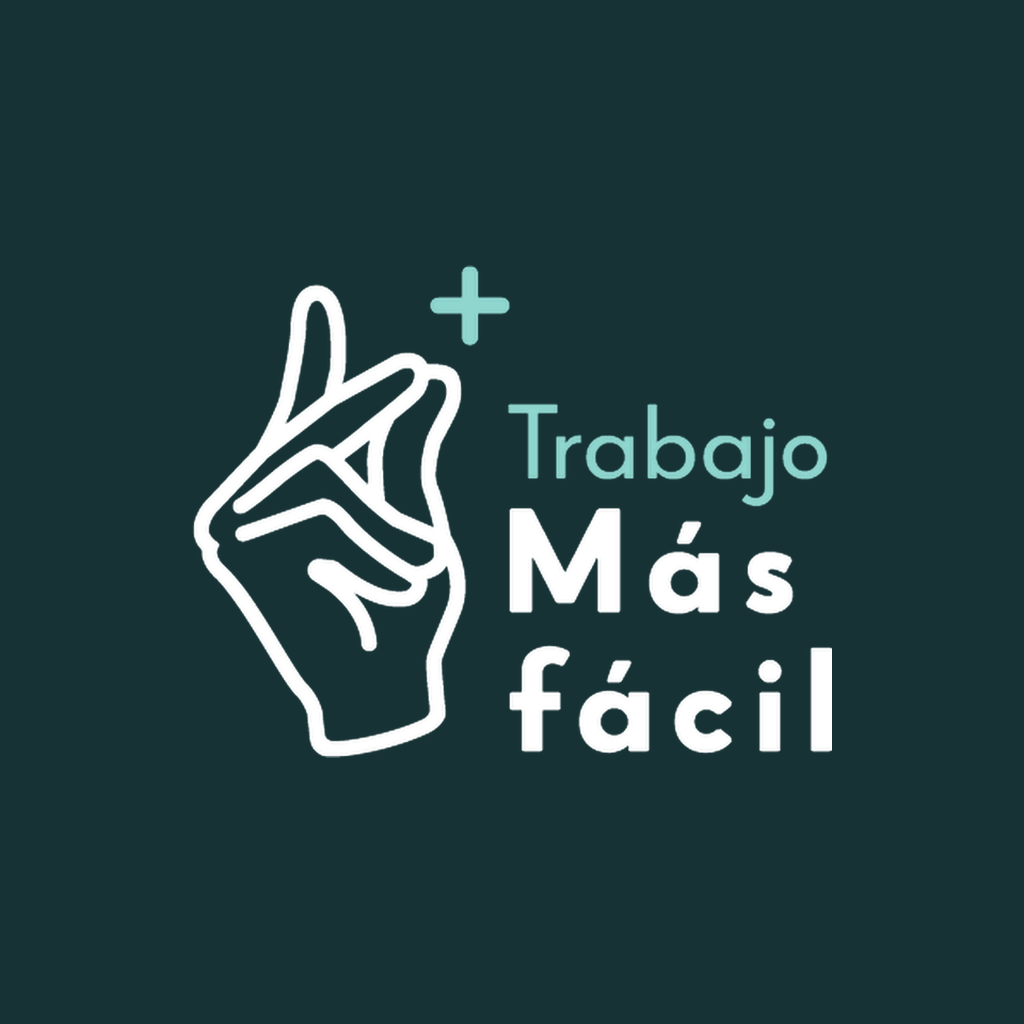
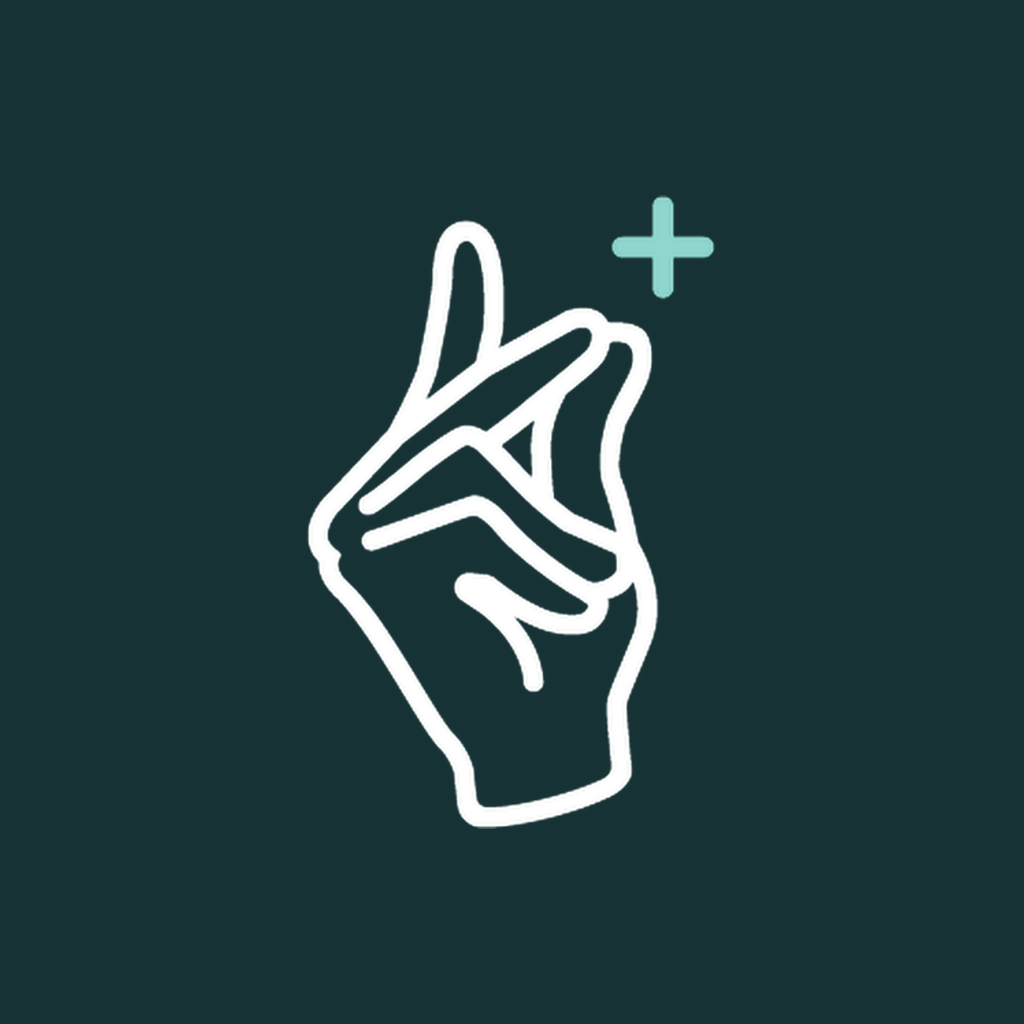
Dashboard de la Cámara enfocado en lo pendiente; ícono solo con la mano
- Saca las acciones rápidas que repetían las pestañas de abajo
- Nueva sección 'Para revisar': instructores esperando verificación, los más antiguos primero
- Los números de la red llevan a la lista ya filtrada (Directorio y Estudios aceptan filtro)
- Ícono de la app: solo la mano con la cruz, como en Facturo Más Fácil

Claude-Session: https://claude.ai/code/session_01BsvAdRJFVusd921gSQHesK

Changed region(s): [[0.1875, 0.1875, 0.8125, 0.8125], [0.2188, 0.5625, 0.2812, 0.6562]]

diff --git a/src/screens/camara/DashboardScreen.tsx b/src/screens/camara/DashboardScreen.tsx
@@ -6,7 +6,6 @@ import { useAuthStore } from '../../store'
 import { confirmSignOut } from '../../lib/auth'
 import { LoadingScreen, ErrorState, colors, spacing, radius, typography } from '../../components/ui'
 import { Feather } from '@expo/vector-icons'
-import BlobCard from '../../components/BlobCard'
 import HeroHeader from '../../components/HeroHeader'
 import NotificationBell from '../../components/NotificationBell'
 
@@ -47,12 +46,14 @@ export default function CamaraDashboardScreen({ navigation }: any) {
     enabled: !!user?.camara_id,
   })
 
-  const { data: potentialMembers = [] } = useQuery({
-    queryKey: ['potential-members'],
+  // Instructores esperando verificación: primero los que esperan hace más tiempo
+  const { data: pending = [] } = useQuery({
+    queryKey: ['camara-instructors', 'pending-dashboard'],
     queryFn: async () => {
       const { data, error } = await supabase
-        .from('studios').select('id, name')
-        .eq('is_member', false).limit(5)
+        .from('instructors').select('id, full_name, created_at, certifications(review_status)')
+        .eq('verification_status', 'pendiente')
+        .order('created_at', { ascending: true }).limit(4)
       if (error) throw error
       return data ?? []
     },
@@ -85,62 +86,76 @@ export default function CamaraDashboardScreen({ navigation }: any) {
 
         />
 
-        {/* KPI grid flotante */}
-        <View style={s.kpiGrid}>
-          <BlobCard style={s.kpiCard} delay={0}
-            blobColor="rgba(42,151,142,0.18)" blobColor2="rgba(42,151,142,0.10)">
-            <Text style={[s.kpiNum, { color: colors.gold }]}>{stats?.member_studios ?? 0}</Text>
-            <Text style={[s.kpiLbl, { color: colors.gold }]}>Estudios socios</Text>
-          </BlobCard>
-          <BlobCard style={s.kpiCard} delay={2500}>
-            <Text style={[s.kpiNum, { color: colors.sage }]}>{stats?.verified_instructors ?? 0}</Text>
-            <Text style={[s.kpiLbl, { color: colors.sageMid }]}>Instructores verificados</Text>
-          </BlobCard>
-          <BlobCard style={s.kpiCard} delay={5000}
-            onPress={() => navigation.navigate('Directorio', { filter: 'pendiente' })}
-            blobColor={pendingCount > 0 ? 'rgba(196,96,10,0.16)' : undefined}
-            blobColor2={pendingCount > 0 ? 'rgba(196,96,10,0.09)' : undefined}>
-            <Text style={[s.kpiNum, { color: pendingCount > 0 ? colors.warnTx : colors.sageMid }]}>{pendingCount}</Text>
-            <Text style={[s.kpiLbl, { color: pendingCount > 0 ? colors.warnTx : colors.mid }]}>Verificaciones pendientes</Text>
-          </BlobCard>
-          <BlobCard style={s.kpiCard} delay={7500}>
-            <Text style={[s.kpiNum, { color: colors.sageMid }]}>{stats?.non_member_studios ?? 0}</Text>
-            <Text style={[s.kpiLbl, { color: colors.mid }]}>Estudios no socios</Text>
-          </BlobCard>
+        {/* 1. Lo que necesita atención: instructores esperando verificación */}
+        <View style={s.section}>
+          <View style={s.sectionHead}>
+            <Text style={s.sectionTitle}>PARA REVISAR{pendingCount ? ` (${pendingCount})` : ''}</Text>
+            {pendingCount > pending.length ? (
+              <TouchableOpacity onPress={() => navigation.navigate('Directorio', { filter: 'pendiente' })}>
+                <Text style={s.link}>Ver todos</Text>
+              </TouchableOpacity>
+            ) : null}
+          </View>
+          {pending.length === 0 ? (
+            <View style={[s.card, s.allDone]}>
+              <View style={[s.icon, { backgroundColor: colors.okBg }]}><Feather name="check" size={16} color={colors.okTx} /></View>
+              <View style={{ flex: 1 }}>
+                <Text style={s.cardTitle}>Nada pendiente</Text>
+                <Text style={s.cardSub}>No hay instructores esperando la verificación.</Text>
+              </View>
+            </View>
+          ) : pending.map((p: any) => {
+            const certs = (p.certifications ?? []).filter((c: any) => (c.review_status ?? 'pending') === 'pending').length
+            const days = Math.max(0, Math.floor((Date.now() - new Date(p.created_at).getTime()) / 86400000))
+            return (
+              <TouchableOpacity key={p.id} style={s.card} activeOpacity={0.85}
+                onPress={() => navigation.navigate('VerifyInstructor', { instructorId: p.id })}>
+                <View style={[s.icon, { backgroundColor: colors.warnBg }]}>
+                  <Text style={[s.initial, { color: colors.warnTx }]}>{p.full_name?.[0]?.toUpperCase() ?? '?'}</Text>
+                </View>
+                <View style={{ flex: 1, minWidth: 0 }}>
+                  <Text style={s.cardTitle} numberOfLines={1}>{p.full_name}</Text>
+                  <Text style={s.cardSub}>
+                    {days === 0 ? 'Se registró hoy' : days === 1 ? 'Espera desde ayer' : `Espera hace ${days} días`}
+                    {certs ? ` · ${certs} certificado${certs > 1 ? 's' : ''} para revisar` : ' · sin certificados'}
+                  </Text>
+                </View>
+                <Feather name="chevron-right" size={18} color={colors.sageMid} />
+              </TouchableOpacity>
+            )
+          })}
         </View>
 
-        {/* Alerta potenciales socios */}
-        {potentialMembers.length > 0 && (
-          <TouchableOpacity style={s.alertCard} onPress={() => navigation.navigate('Estudios')} activeOpacity={0.85}>
-            <View style={s.alertIcon}><Feather name="users" size={16} color={colors.sage} /></View>
+        {/* 2. La red, de un vistazo (cada número lleva a la lista filtrada) */}
+        <View style={s.section}>
+          <Text style={[s.sectionTitle, { marginBottom: spacing.sm }]}>LA RED</Text>
+          <View style={s.kpiRow}>
+            {[
+              { n: stats?.verified_instructors ?? 0, l: 'Instructores\nverificados', go: () => navigation.navigate('Directorio', { filter: 'verificado' }) },
+              { n: stats?.member_studios ?? 0,       l: 'Estudios\nsocios',          go: () => navigation.navigate('Estudios', { filter: 'miembro' }) },
+              { n: stats?.non_member_studios ?? 0,   l: 'Estudios\nno socios',       go: () => navigation.navigate('Estudios', { filter: 'no_miembro' }) },
+            ].map(k => (
+              <TouchableOpacity key={k.l} style={s.kpi} onPress={k.go} activeOpacity={0.85}>
+                <Text style={s.kpiNum}>{k.n}</Text>
+                <Text style={s.kpiLbl}>{k.l}</Text>
+              </TouchableOpacity>
+            ))}
+          </View>
+        </View>
+
+        {/* 3. Oportunidad: estudios que todavía no son socios */}
+        {(stats?.non_member_studios ?? 0) > 0 && (
+          <TouchableOpacity style={s.invite} onPress={() => navigation.navigate('Estudios', { filter: 'no_miembro' })} activeOpacity={0.85}>
+            <View style={[s.icon, { backgroundColor: colors.white }]}><Feather name="user-plus" size={16} color={colors.sage} /></View>
             <View style={{ flex: 1 }}>
-              <Text style={s.alertTitle}>
-                {potentialMembers.length >= 5 ? 'Varios estudios' : `${potentialMembers.length} estudio${potentialMembers.length > 1 ? 's' : ''}`} todavía no {potentialMembers.length > 1 ? 'son socios' : 'es socio'}
+              <Text style={s.inviteTitle}>
+                {stats!.non_member_studios === 1 ? '1 estudio todavía no es socio' : `${stats!.non_member_studios} estudios todavía no son socios`}
               </Text>
-              <Text style={s.alertSub}>Invitalos a sumarse a la Cámara</Text>
+              <Text style={s.cardSub}>Invitalos a sumarse a la Cámara</Text>
             </View>
-            <Feather name="chevron-right" size={16} color={colors.sage} />
+            <Feather name="chevron-right" size={18} color={colors.sage} />
           </TouchableOpacity>
         )}
-
-        {/* Acciones rápidas */}
-        <Text style={s.actionsLabel}>ACCIONES RÁPIDAS</Text>
-        <View style={s.actionsGrid}>
-          {[
-            { label: 'Directorio de instructores', icon: 'users',      screen: 'Directorio', params: { filter: 'todos' } },
-            { label: `Verificar pendientes${pendingCount ? ` (${pendingCount})` : ''}`, icon: 'user-check', screen: 'Directorio', params: { filter: 'pendiente' } },
-            { label: 'Estudios registrados',       icon: 'home',       screen: 'Estudios',   params: undefined },
-            { label: 'Rangos de tarifas',          icon: 'sliders',    screen: 'Tarifas',    params: undefined },
-          ].map((a, i) => (
-            <TouchableOpacity key={i} style={s.actionCard} onPress={() => navigation.navigate(a.screen, a.params)} activeOpacity={0.85}>
-              <View style={s.actionIcon}>
-                <Feather name={a.icon as any} size={16} color={colors.sage} />
-              </View>
-              <Text style={s.actionLbl}>{a.label}</Text>
-              <Feather name="arrow-right" size={14} color={colors.border} />
-            </TouchableOpacity>
-          ))}
-        </View>
 
       </ScrollView>
     </View>
@@ -151,19 +166,20 @@ const s = StyleSheet.create({
   logoutBtn:     { flexDirection: 'row', alignItems: 'center', gap: 4, backgroundColor: 'rgba(255,255,255,0.1)', borderRadius: 999, paddingHorizontal: 10, paddingVertical: 6 },
   logoutTxt:     { fontFamily: 'Nunito-SemiBold', fontSize: 11, color: colors.white },
 
-  kpiGrid:       { flexDirection: 'row', flexWrap: 'wrap', paddingHorizontal: spacing.md, paddingTop: spacing.xs, gap: spacing.sm, marginTop: -12, zIndex: 2, marginBottom: spacing.md },
-  kpiCard:       { flexBasis: '47%', padding: spacing.md },
-  kpiNum:        { fontFamily: 'Nunito-Bold', fontSize: 28, lineHeight: 32, marginBottom: 3 },
-  kpiLbl:        { ...typography.caption },
-
-  alertCard:     { marginHorizontal: spacing.md, marginBottom: spacing.md, backgroundColor: colors.sageLighter, ...radius.leaf, padding: spacing.md, flexDirection: 'row', alignItems: 'center', gap: spacing.sm, borderWidth: 0.5, borderColor: colors.border },
-  alertIcon:     { width: 36, height: 36, borderRadius: 18, backgroundColor: colors.sageLight, alignItems: 'center', justifyContent: 'center' },
-  alertTitle:    { fontFamily: 'Nunito-Bold', fontSize: 13, color: colors.sage },
-  alertSub:      { fontFamily: 'Nunito-Regular', fontSize: 11, color: colors.light, marginTop: 1 },
-
-  actionsLabel:  { ...typography.caption, marginHorizontal: spacing.md, marginBottom: 8 },
-  actionsGrid:   { paddingHorizontal: spacing.md, gap: 8 },
-  actionCard:    { backgroundColor: colors.white, ...radius.leaf, padding: spacing.md, borderWidth: 0.5, borderColor: colors.borderLight, flexDirection: 'row', alignItems: 'center', gap: spacing.sm, elevation: 1 },
-  actionIcon:    { width: 32, height: 32, borderRadius: 999, backgroundColor: colors.sageLight, alignItems: 'center', justifyContent: 'center', flexShrink: 0 },
-  actionLbl:     { fontFamily: 'Nunito-SemiBold', fontSize: 13, color: colors.dark, flex: 1 },
+  section:       { paddingHorizontal: spacing.md, marginBottom: spacing.lg },
+  sectionHead:   { flexDirection: 'row', justifyContent: 'space-between', alignItems: 'center', marginBottom: spacing.sm },
+  sectionTitle:  { ...typography.caption },
+  link:          { fontFamily: 'Nunito-Bold', fontSize: 13, color: colors.sage },
+  card:          { flexDirection: 'row', alignItems: 'center', gap: spacing.sm, backgroundColor: colors.white, ...radius.leaf, padding: spacing.md, borderWidth: 0.5, borderColor: colors.borderLight, marginBottom: spacing.sm },
+  allDone:       { backgroundColor: colors.white },
+  icon:          { width: 38, height: 38, borderRadius: 19, alignItems: 'center', justifyContent: 'center' },
+  initial:       { fontFamily: 'Nunito-Bold', fontSize: 15 },
+  cardTitle:     { fontFamily: 'Nunito-Bold', fontSize: 14, color: colors.dark },
+  cardSub:       { fontFamily: 'Nunito-Regular', fontSize: 12, color: colors.mid, marginTop: 2, lineHeight: 17 },
+  kpiRow:        { flexDirection: 'row', gap: spacing.sm },
+  kpi:           { flex: 1, backgroundColor: colors.white, ...radius.leaf, paddingVertical: spacing.md, paddingHorizontal: spacing.sm + 2, borderWidth: 0.5, borderColor: colors.borderLight },
+  kpiNum:        { fontFamily: 'Nunito-Bold', fontSize: 26, lineHeight: 30, color: colors.sage },
+  kpiLbl:        { fontFamily: 'Nunito-SemiBold', fontSize: 11, lineHeight: 14, color: colors.mid, marginTop: 4 },
+  invite:        { marginHorizontal: spacing.md, flexDirection: 'row', alignItems: 'center', gap: spacing.sm, backgroundColor: colors.sageLight, ...radius.leaf, padding: spacing.md },
+  inviteTitle:   { fontFamily: 'Nunito-Bold', fontSize: 14, color: colors.sage },
 })

diff --git a/src/screens/camara/StudiosScreen.tsx b/src/screens/camara/StudiosScreen.tsx
@@ -1,4 +1,4 @@
-import React, { useState } from 'react'
+import React, { useEffect, useState } from 'react'
 import {
   View, Text, StyleSheet, FlatList, TextInput,
   TouchableOpacity, Alert, RefreshControl
@@ -18,10 +18,14 @@ import { applyPlan, membershipOf, PAID_PLANS, STUDIO_KEYS } from './planUtils'
 
 type Filter = 'todos' | 'miembro' | 'no_miembro'
 
-export default function CamaraStudiosScreen({ navigation }: any) {
+export default function CamaraStudiosScreen({ navigation, route }: any) {
   const { toast, showToast, hideToast } = useToast()
   const qc = useQueryClient()
-  const [filter, setFilter]   = useState<Filter>('todos')
+  const [filter, setFilter]   = useState<Filter>(route?.params?.filter ?? 'todos')
+  // El dashboard abre esta pantalla con un filtro ya elegido
+  useEffect(() => {
+    if (route?.params?.filter) setFilter(route.params.filter)
+  }, [route?.params?.filter])
   const [search, setSearch]   = useState('')
   const [refreshing, setRefreshing] = useState(false)
 
